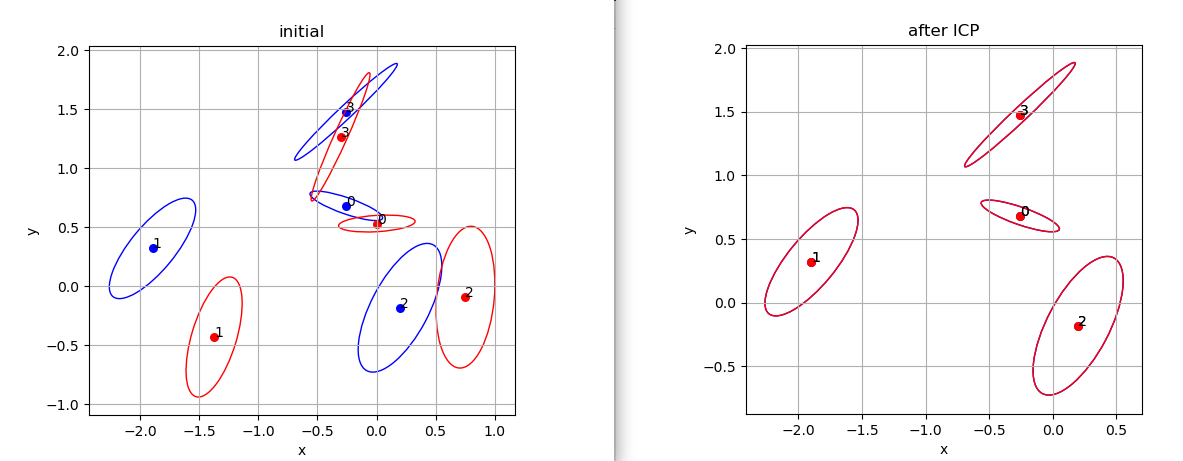
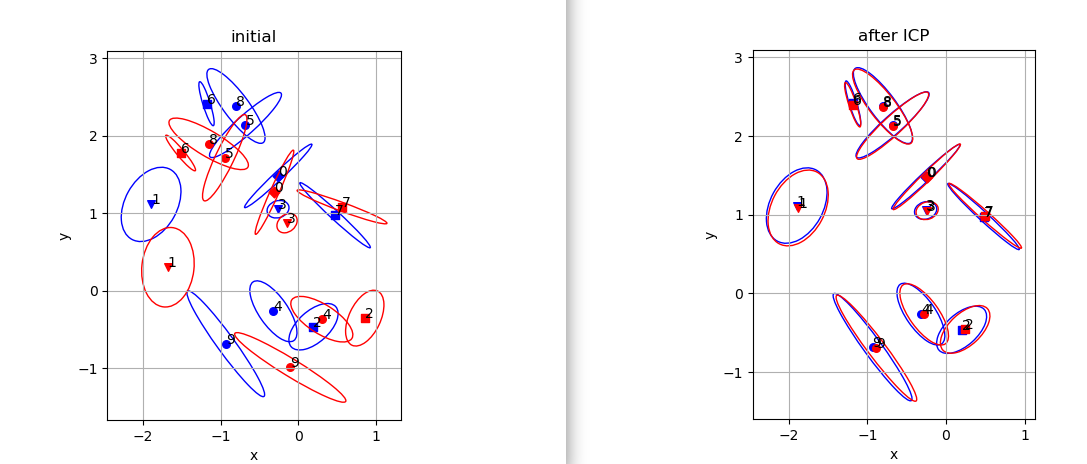
image change

diff --git a/tests/05_sgicp.py b/tests/05_sgicp.py
@@ -13,7 +13,7 @@ yrange = (-1,3)
 sigmarange = (-0.5,0.5)
 
 cluster1 = clusters.cluster2()
-cluster1.fillClusterRandomly(4,xrange, yrange, sigmarange, classLabels)
+cluster1.fillClusterRandomly(10,xrange, yrange, sigmarange, classLabels)
 
 x_true = np.array([0.5,0,np.pi/8])
 R_true, t_true = transforms2D.x_to_Rt(x_true)
@@ -21,8 +21,8 @@ cluster2 = copy.deepcopy(cluster1)
 cluster2.transform(R_true,t_true, transformCov = True)
 
 ax, _ = plotting2D.prepAxes()
-cluster1.plot(ax = ax, plotIndex = True,plotCov = True, markerSize = 30, markerColor = 'b', markerShape = 'o')
-cluster2.plot(ax = ax, plotIndex = True,plotCov = True, markerSize = 30, markerColor = 'r', markerShape = 'o')
+cluster1.plot(ax = ax, plotIndex = True,plotCov = True, markerSize = 30, markerColor = 'b')
+cluster2.plot(ax = ax, plotIndex = True,plotCov = True, markerSize = 30, markerColor = 'r')
 ax.set_title('initial')
 
 invx_est, fmin, itr, df, i =  semantic_gicp(cluster2.points, cluster2.covariances, cluster2.pointLabels, #source
@@ -38,8 +38,8 @@ invEst_R, invEst_t = transforms2D.x_to_Rt(invx_est)
 cluster2.transform(invEst_R,invEst_t, transformCov = True)
 
 ax, _ = plotting2D.prepAxes()
-cluster1.plot(ax = ax, plotIndex = True,plotCov = True, markerSize = 30, markerColor = 'b', markerShape = 'o')
-cluster2.plot(ax = ax, plotIndex = True,plotCov = True, markerSize = 30, markerColor = 'r', markerShape = 'o')
+cluster1.plot(ax = ax, plotIndex = True,plotCov = True, markerSize = 30, markerColor = 'b')
+cluster2.plot(ax = ax, plotIndex = True,plotCov = True, markerSize = 30, markerColor = 'r')
 ax.set_title('after ICP')
 
 plt.show()
